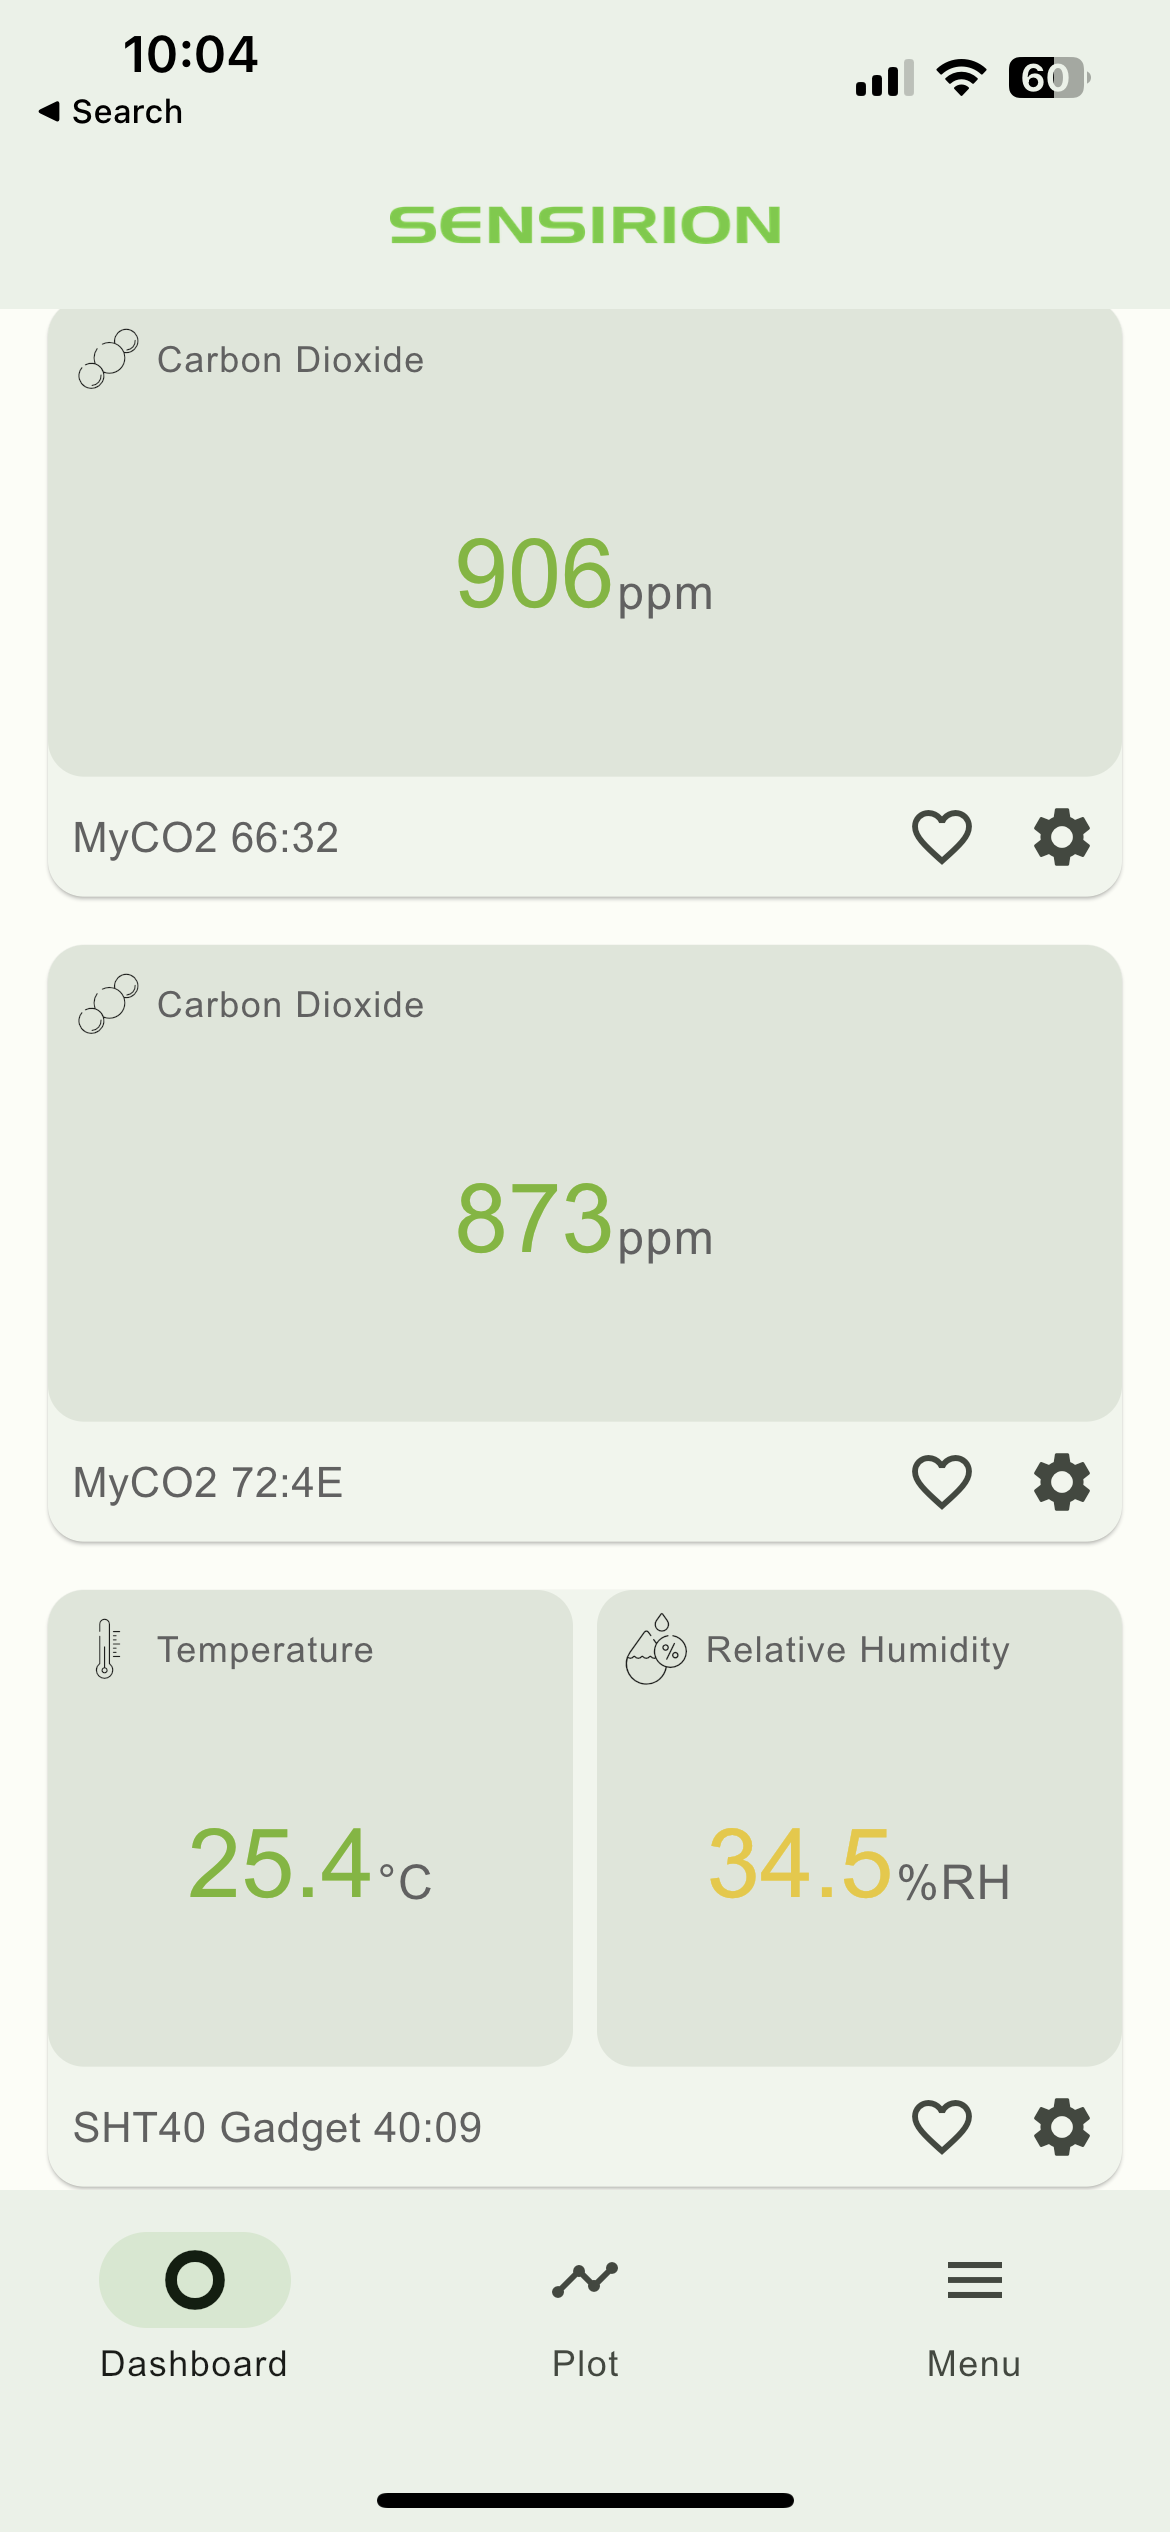
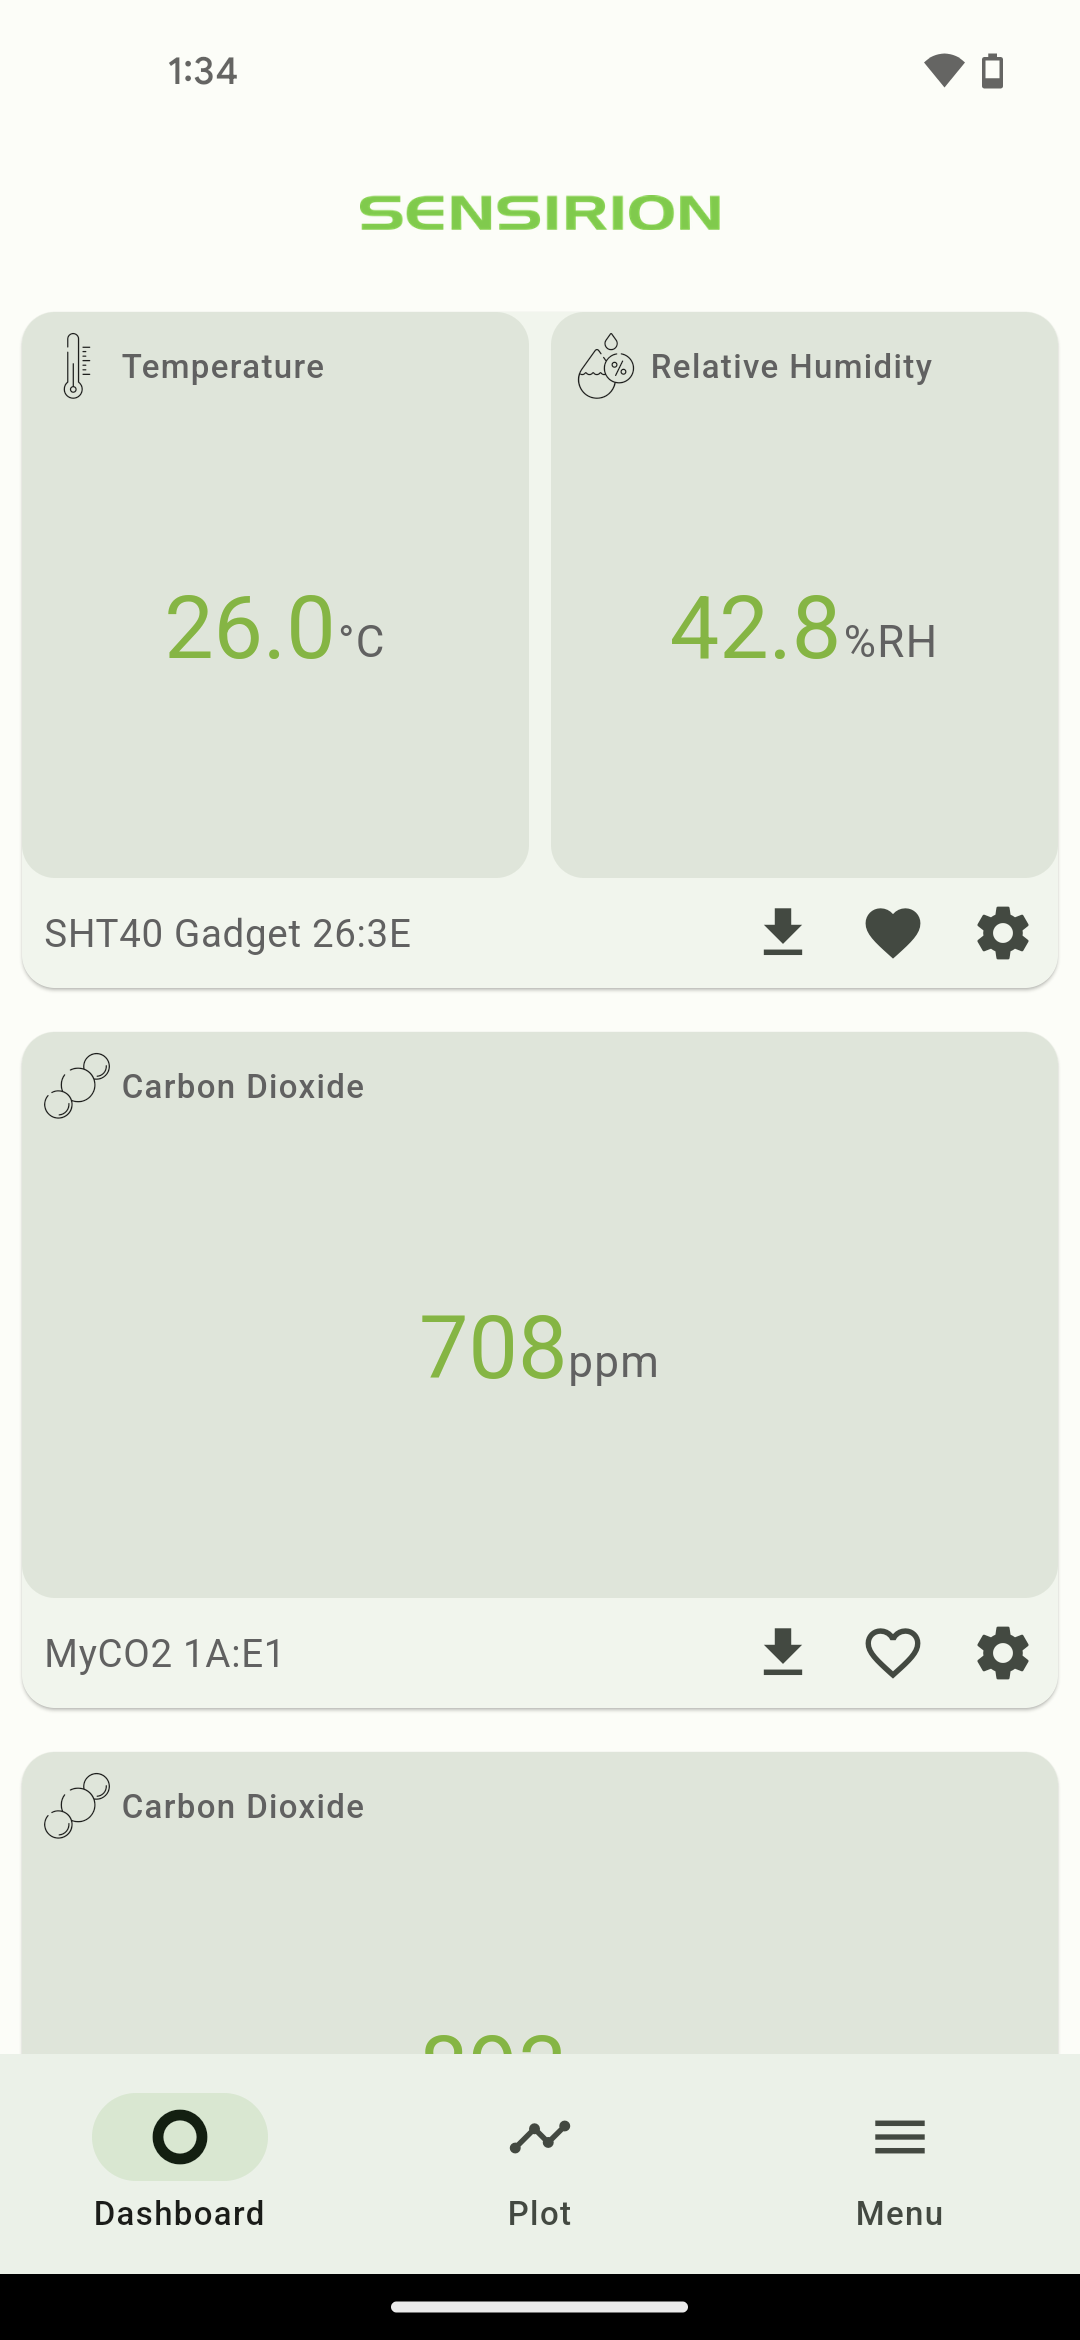
update manual for 3.3.0 release
data download and export in background
FRC setting for CO2 gadget

diff --git a/docs/README.md b/docs/README.md
@@ -6,7 +6,7 @@
 This is a short introduction to the Sensirion MyAmbience app for iOS and Android devices. 
 MyAmbience is used together with the official Sensirion Demonstrators which can be found on the [Sensirion website](https://sensirion.com/search?q=gadget) as well as 3rd party do-it-yourself demonstrators.
 
-The Manual refers to myAmbience version 3.0 and newer. 
+The Manual refers to MyAmbience version 3.0 and newer. 
 
 ## Supported Demonstrators
 
@@ -29,7 +29,7 @@ Learn more about the SHT4x and the SHT4x SmartGadget at [our website](https://se
 ### SHT31 SmartGadget
 ![SCD4x CO2 Gadget](images/sht31_gadget.png ":size=30%")
 
-This is deprecated but still compatible with the myAmbience app.
+This is deprecated but still compatible with the MyAmbience app.
 Learn more about the SHT3x and the SHT31 SmartGadget at [our website](https://sensirion.com/products/catalog/SHT31-Smart-Gadget)
 
 ### Nubo Air Monitoring system
@@ -40,13 +40,13 @@ Learn more about Nubo at [our website](https://sensirion-connected.com/solutions
 ### Do-it-yourself Demonstrators
 ![Do it yourself](images/esp_based.png ":size=30%")
 
-You can create your own demonstrators and connect them to myAmbience!
+You can create your own demonstrators and connect them to MyAmbience!
 Learn how to create your own on [our Github page](https://github.com/Sensirion/arduino-ble-gadget)!
 
 
 # Getting Started
 
-## Download myAmbience for your OS
+## Download MyAmbience for your OS
 
 ### Apple iOS:
 You can download the iOS MyAmbience app through the oficial Apple App Store through the following link or QR code:
@@ -64,13 +64,14 @@ You can download the Android MyAmbience app through the oficial Google Play Stor
 
 ## Requirements and Permissions
 
-The following permissions need to be set so that myAmbience can detect surrounding demonstrators:
+The following permissions need to be set so that MyAmbience can detect surrounding demonstrators:
 
-- Bluetooth on your device needs to be enabled and the app needs to have permissions for bluetooth
-- On Android devices location permissions need to be given in addition. We do not store location information, however this is required by the bluetooth functionality since on some Android versions these are coupled
+- Bluetooth on your device needs to be enabled and the app needs to have permissions for bluetooth.
+- On Android devices location permissions need to be given in addition. We do not store location information, however this is required by the bluetooth functionality since on some Android versions these are coupled.
+- In case you would like to get notifications when you download data from the demonstrators devices and export data, please allow notifications for MyAmbience.
 - The gadget needs to be in a range of 10-15 meters from the mobile. This ranges between devices, however, this is the typical operating distance of bluetooth devices.
 
-# Using myAmbience
+# Using MyAmbience
 
 ## Main Screens
 
@@ -89,7 +90,7 @@ MyAmbience is divided into three main screens:
 
 ### Gadget Overview
 
-The main screen of myAmbience offers an overview of all the nearby active gadgets. Normally gadgets within a 10-15m radius can be found.
+The main screen of MyAmbience offers an overview of all the nearby active gadgets. Normally gadgets within a 10-15m radius can be found.
 
 Each gadget has its own "card" which shows an overview of all the available sensor signals. The colors of the signals vary depending on the value and how "high or low" this is. An example is shown in the image below:
 
@@ -104,7 +105,7 @@ If you want to focus only on one gadget, you can tap on the card and a focused v
 
 ### Favorite Gadgets
 
-A new feature in myAmbience is the ability to "Favorite" gadgets. Favorite gadgets will always show on the top of the gadget list. 
+MyAmbience allows you to mark "Favorite" gadgets. Favorite gadgets will always show on the top of the gadget list. 
 
 To favorite a gadget, simply tap the heart icon on the bottom right of each gadget card as shown in the picture below:
 
@@ -114,44 +115,32 @@ The favorite settings are persistent even if your gadget is not in reach. The ne
 
 ### Gadget Settings
 
-You can configure certain aspects of your gadget! by tapping the cog wheel icon next to the favorites icon on the bottom right you go into the settings view. An example is shown below for the SCD4x CO2 Gadget:
+You can configure certain aspects of your gadget! By tapping the cog wheel icon next to the favorites icon on the bottom right you go into the settings view. An example is shown below for the SCD4x CO2 Gadget:
 
 ![Settings View](images/Settings.PNG ":size=40%") 
 
 Through the settings view you can:
-- Update the firmware of your gadget. The app will automatically detect a firmware which needs to be updated and will let you know in the Settings View
+- Update the firmware of your gadget. The app will automatically detect a firmware which needs to be updated and will allow you to start the update.
 - Change the name of your gadget. Please note, that this will change the gadget name only for your own device and not overall of the gadget
 - See the battery percentage, the available logging memory and adjust the logging interval 
 - (CO2 Gadget Only) Adjust the LED Brightness
-- Turn on/off the LED by tapping on the light bulb on the bottom right
+  - Turn on/off the LED by tapping on the light bulb on the bottom right
+- (CO2 Gadget Only) Perform a Forced Recalibration
 
 
 ## Plots
 
 
-The plot view is very useful to understand the historical data from your environment. For example how is the CO2 concentration when you sleep at night with closed doors and windows or what is the relative humidity in the summer versus the winter
+The plot view is very useful to understand the historical data from your environment. For example how the CO2 concentration is when you sleep at night with closed doors and windows or what the relative humidity is in the summer versus the winter.
 
 ### Gadget Selection
 
-To see the plot for a gadget you can select it from the buttons in the bottom of the app. Selected gadgets show in Green.
+To see the plot for a gadget you can select it from the buttons in the bottom of the app. Selected gadgets show in green.
 
 Please note: By default a single tap on a gadget adds it in the list of the gadgets. If you would like to focus on the plot of only one gadget you have to long press the gadget button 
 
 ![Plots](images/Plot.PNG ":size=40%")
 
-### Fetching old data
-
-Currently, only the data captured while the app is active are shown on the plot area. However, most of the gadgets have internal memory which allows them to log the data and send it to myAmbience upon request.
-
-To fetch the previously recorded data you need to press the download icon on the top right which will take you to the fetching view. 
-
-![Fetch Data](images/Fetch.PNG ":size=40%")
-
-The app needs to firstly connect to the gadget and then download the previously recorded data.
-
-It is recommended that you are in close proximity of the gadget when trying to fetch the data.
-
-In case the process fails or is interrupted you can start over again by following the same steps.
 
 ### Plot Interaction
 The plot interaction is intuitive and simple to allow the users to focus on the signal values.
@@ -176,25 +165,75 @@ MyAmbience gives you the ability to quickly jump between different time ranges b
 
 ![Time ranges](images/Time%20ranges%20and%20single%20plot.PNG ":size=40%")
 
-A new mode in myAmbience is the live mode, this will automatically move the plot to always show the new values and it will retain the current time range. As soon as you manually move the plot, the app goes out of live mode and allows the user to see the previous measurements.
+A new mode in MyAmbience is the live mode, this will automatically move the plot to always show the new values and it will retain the current time range. As soon as you manually move the plot, the app goes out of live mode and allows the user to see the previous measurements.
+
+## Fetching stored data from gadget
+
+While the app is active, live data is captured and stored for all gadgets in range. However, most of the gadgets have internal memory which allows them to log the data and send it to MyAmbience upon request. The logging interval on the gadget device can be changed in the [Gadget Settings](#gadget-settings).
+
+There are two ways to initiate a data download:
+
+- In the Plot screen, press the download icon on the top right which will take you to the download view and start fetching data for all selected gadgets.
+- In the Dashboard, press the download icon on the gadget card. This will take you to the download view and start fetching data for this gadget.
+
+The app needs to firstly connect to the gadget and then download the previously recorded data.
+
+It is recommended that you are in close proximity of the gadget when trying to fetch the data.
+
+![Download Data](images/DownloadsOverview.png ":size=40%")
+
+On the download screen, you are informed about the download in progress. 
+To cancel a running download, swipe the card to the left. Any data already downloaded is discarded.
+
+As the download of data might take some time, you can leave the download view and the data download will continue in background. You are informed about
+the download progress with a notification. Additionaly, the download state is visualized with an icon in the bottom right of the gadgets's dashboard card.
+You can go back to the download view by tapping on that button at any time or by using the download button in the Plot screen. 
+
+![Download Complete](images/DownloadsComplete.png ":size=40%")
+
+When a download is finished, the download view shows you the number of samples downloaded and their time range. You can explore the data in the Plot screen.
+
+When a download failed or was interrupted due to lost or weak Bluetooth Connection, it is visualized in the download view. You can retry the download by pressing the refresh button on the right of a download card.
+
+If you do no longer want to keep the download card in the list, you can dismiss the card by swiping to the left or removing all downloads not in progress anymore with the "Dismiss finished" button in the bottom right corner of the screen.
 
 
-### Export and Share data
+## Export and Share data
 
-You can export the logged data from your gadgets through myAmbience.
+You can export the stored data from your gadgets.
 
-The logged data are currently automatically exported in an EDF file format. The EDF format is CSV compatible which  means you can open it with Excel or any other csv handling capable editor.
+To select the data to export, you have two options:
+
+Use the share button on the top right in the Plot screen to export data for all selected gadgets.
+
+![Share Data from Plot](images/Share.PNG ":size=10%")
+
+Go to the [Manage Gadgets](#manage-gadgets) Menu, select one or more gadgets and choose the export option.
+
+![Share Data from Manage Gadgets](images/ShareFromManage.png ":size=10%")
+
+Once you have started a export, the Share exported data screen will open and show the progress of the export.
+You can leave this screen and the export will continue in the background. You will be notified once the export is finished.
+To navigate back to the export screen, use the [Share exported data](#share-exported-data) menu.
+
+![Share exported data](images/Export%20Overview.PNG ":size=40%")
+
+Once the export is finished, you can share your data by tapping on the share button on the card.
+
+The exported data persists until you dismiss it by swiping the entry to the left or you close the app.
+
+The data is exported in an EDF file format. The EDF format is CSV compatible which means you can open it with Excel or any other editor capable of handling CSV.
 The EDF files are compatible with ControlCenter and Dataviewer (Sensirion Evaluation Software), so that you can plot your gadget data in Dataviewer.
-![Share Data](images/Share.PNG ":size=40%")
 
 For more information about EDF files please visit the [ControlCenter Manual](https://sensirion.github.io/ControlCenterManual/#/?id=edf-files-explained).
+
 
 ## Menu
 ![Menu](images/Menu.PNG ":size=40%")
 
 ### App Settings
 
-In the app settings you can adjust the general settings of myAmbience:
+In the app settings you can adjust the general settings of MyAmbience:
 
 - Adjust the measurement system from measuring in degrees Celcius or degrees Fahrenheit or Kelvin
 - Select which computed signals will be displayed if the measured signals are available. To learn more about the computed signals for the SHT4x SmartGadget visit the link [here](https://sensirion.com/resource/application_note/sht/glance).
@@ -211,12 +250,17 @@ The Manage gadgets area allows you to see all the previously detected gadgets an
 - delete the gadget and its data
 - delete the data of the gadget
 - Select multiple gadgets
+- export data of the gadget
 
 There are three different states a gadget can be:
 
 - Active: denoted in green color
 - Connecting: Denoted in light blue color
 - Not found (Gadget is out of reach): Denoted in grey color
+
+### Share exported data
+
+For more details about how to start a data export, please refer to [Export and Share data](#export-and-share-data) section.
 
 ## Support and Feedback
 
@@ -225,8 +269,7 @@ solve problems of our users, therefore gathering feedback and supporting
 our users is of outmost importance to us.
 
 If you request any type of additional support please do not hesitate to
-contact us by writing a quick note to
-[support@sensirion.com](mailto:support@sensirion.com) with the topic 'MyAmbience Feedback'.
+contact us by filing an issue on our [developer support page](https://sensirion.atlassian.net/servicedesk/customer/portal/1) mentioning MyAmbience as a product.
 
 # Appendix
 ## Privacy Policy and information we collect
